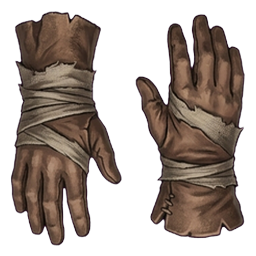
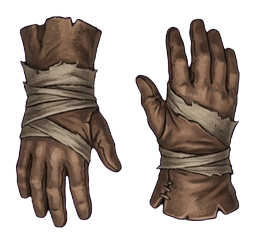
fix(equip): recorte que preenche o SLOT EQUIPADO (não a mochila)
Correção do alvo: a mochila já estava boa — o problema era o item pequeno/
flutuando dentro do SLOT EQUIPADO (boneco), sobretudo o cinto no slot achatado.

- Mochila e popup voltam à arte ORIGINAL (com margem, centralizada).
- Slots equipados passam a usar o ícone RECORTADO no conteúdo, mantendo a
  proporção NATURAL da peça (cinto largo, elmo alto...) → preenche o formato do
  slot (o cinto enche o slot achatado; elmo/peitoral enchem os quadrados).
- Ícones regerados como recorte justo (sem esticar) + CSS deixa o ícone do
  boneco preencher 96% do slot.
- Campo renomeado invIcon → fitIcon (mais claro).

Verificado: elmo/peitoral/luvas/botas/cinto equipados preenchem seus slots;
mochila segue igual ao original.

Claude-Session: https://claude.ai/code/session_013WvcxhCgG4YoQ53hJyUeUZ

Changed region(s): [[0.0312, 0.0288, 0.5, 0.9794], [0.5312, 0.0576, 0.9688, 0.9506]]

diff --git a/grimhollow/src/game/items.ts b/grimhollow/src/game/items.ts
@@ -24,9 +24,10 @@ import t3_chest from "../assets/item/armor/t3_chest.png";
 import t3_hands from "../assets/item/armor/t3_hands.png";
 import t3_feet from "../assets/item/armor/t3_feet.png";
 import t3_belt from "../assets/item/armor/t3_belt.png";
-// versões RECORTADAS (conteúdo esticado p/ preencher o quadrado) — usadas SÓ na
-// mochila/inventário, p/ o ícone encaixar perfeitamente no slot. O boneco segue
-// com a arte original (com margem), que fica melhor nas molduras ornamentadas.
+// versões RECORTADAS no conteúdo (proporção natural, margem removida) — usadas
+// nos SLOTS EQUIPADOS (boneco), p/ o ícone preencher o formato do slot (o cinto
+// largo enche o slot achatado etc). A mochila e o popup seguem com a arte
+// original (com margem). (pasta chama-se inv/ por herança, mas é o ícone "fit".)
 import iv_t1_head from "../assets/item/armor/inv/t1_head.png";
 import iv_t1_chest from "../assets/item/armor/inv/t1_chest.png";
 import iv_t1_hands from "../assets/item/armor/inv/t1_hands.png";
@@ -126,8 +127,8 @@ const ICON: Record<ArmorSlot, string[]> = {
   feet:  [t1_feet, t2_feet, t3_feet],
   belt:  [t1_belt, t2_belt, t3_belt],
 };
-// ícone de INVENTÁRIO (recortado/esticado p/ preencher o slot). Mesmo índice.
-const INV_ICON: Record<ArmorSlot, string[]> = {
+// ícone RECORTADO que preenche o slot equipado (mesmo índice do ICON).
+const FIT_ICON: Record<ArmorSlot, string[]> = {
   head:  [iv_t1_head, iv_t2_head, iv_t3_head],
   chest: [iv_t1_chest, iv_t2_chest, iv_t3_chest],
   hands: [iv_t1_hands, iv_t2_hands, iv_t3_hands],
@@ -146,8 +147,8 @@ export interface ItemInstance {
   tier: number;
   rarity: Rarity;
   name: string;      // ex.: "Peitoral de Bronze"
-  icon: string;      // arte original (boneco/popup) — com margem, centralizada
-  invIcon: string;   // arte recortada p/ preencher o slot da mochila
+  icon: string;      // arte original (mochila/popup) — com margem, centralizada
+  fitIcon: string;   // arte recortada p/ preencher o slot EQUIPADO (boneco)
   base: StatBonus;
   affixes: RolledAffix[];
 }
@@ -196,7 +197,7 @@ export function generateArmor(slot: ArmorSlot, tier: number, opts?: { rarity?: R
     rarity,
     name: `${PIECE_NAME[slot]} de ${MATERIAL[tier]}`,
     icon: ICON[slot][tier - 1],
-    invIcon: INV_ICON[slot][tier - 1],
+    fitIcon: FIT_ICON[slot][tier - 1],
     base: { ...ARMOR_BASE[slot][tier - 1] },
     affixes,
   };

diff --git a/grimhollow/src/game/Game.ts b/grimhollow/src/game/Game.ts
@@ -3029,12 +3029,14 @@ export class Game {
       bag.push({ kind: "weapon", id, icon: w.url, name: w.name, rarity: "comum", tip: this.weaponTip(w, "equip") });
     }
     for (const it of this.armorInv)
-      // MOCHILA usa o ícone recortado (encaixa no slot); o boneco/popup usam o original
-      bag.push({ kind: "armor", id: it.uid, icon: it.invIcon, name: it.name, rarity: it.rarity, tip: this.armorTip(it, "equip") });
+      // MOCHILA usa a arte ORIGINAL (já ficava boa aqui)
+      bag.push({ kind: "armor", id: it.uid, icon: it.icon, name: it.name, rarity: it.rarity, tip: this.armorTip(it, "equip") });
     const armor: EquipUIData["armor"] = {};
     for (const s of ARMOR_SLOTS) {
       const it = this.equippedArmor[s];
-      if (it) armor[s] = { icon: it.icon, rarity: it.rarity, tip: this.armorTip(it, "unequip") };
+      // SLOT EQUIPADO usa o ícone recortado, que preenche o formato do slot
+      // (ex.: o cinto largo enche o slot achatado); popup segue com o original
+      if (it) armor[s] = { icon: it.fitIcon, rarity: it.rarity, tip: this.armorTip(it, "unequip") };
     }
     this.ui.setEquip({ bag, armor });
   }

diff --git a/grimhollow/src/game/controls.ts b/grimhollow/src/game/controls.ts
@@ -3249,8 +3249,10 @@ function injectStyle() {
     max-width:86%; max-height:86%; width:auto; height:auto; object-fit:contain;
     filter:drop-shadow(0 2px 3px rgba(0,0,0,.6)); pointer-events:none;
   }
-  /* MOCHILA: ícone recortado preenche o slot (a arte já vem "quadrada") */
-  .gh-bag-slot .gh-item-ico { max-width:100%; max-height:100%; width:100%; height:100%; object-fit:contain; }
+  /* SLOTS EQUIPADOS (boneco): o ícone já vem recortado no conteúdo → deixa
+     preencher o slot (proporção natural, sem esticar). O cinto largo enche o
+     slot achatado; elmo/peitoral enchem os quadrados. */
+  .gh-eq-doll .gh-item-ico { max-width:96%; max-height:96%; width:96%; height:96%; object-fit:contain; }
   .gh-bag-slot[data-wid] { cursor:pointer; }
   .gh-bag-slot[data-wid]:hover { background:rgba(34,27,15,.92); }
   /* item selecionado: o slot pulsa/brilha (dourado) */
